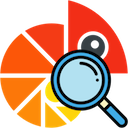
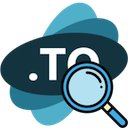
Port to AEON

diff --git a/xmrto-lens.css b/xmrto-lens.css
@@ -124,7 +124,7 @@ input[type=number]::-webkit-outer-spin-button {
 #xmrto-lens-modal button {
   border-radius: 4px;
   border:0;
-  background: #f60;
+  background: #2bd;
   color:#fff;
   font-size: 15px;
   padding: 12px 15px;
@@ -182,7 +182,7 @@ input[type=number]::-webkit-outer-spin-button {
 	content:"";
 	/* https://stackoverflow.com/a/24359746 */
 	/* https://stackoverflow.com/a/38175416 */
[2 lines of base64/hex data omitted]
 	width:38px;
 	height:38px;
 	position: absolute;
@@ -201,7 +201,7 @@ input[type=number]::-webkit-outer-spin-button {
 .spinner > div {
   width: 18px;
   height: 18px;
-  background-color: #a62;
+  background-color: #357;
 
   border-radius: 100%;
   display: inline-block;

diff --git a/xmrto-lens.js b/xmrto-lens.js
@@ -24,11 +24,11 @@ function inject_lens_icon(node) {
 }
 
 function show_error(msg) {
-    // At any point in the process, if the XMR.to api returns any kind of error,
+    // At any point in the process, if the AEON.to api returns any kind of error,
     // this text gets placed into the page.
     $("#xmrto-lens-modal").html(
         "<div class='ui-state-error ui-corner-all xmrto-error'>" +
-            "XMR.to API returned an Error:<br><br>" +
+            "AEON.to API returned an Error:<br><br>" +
             "<span class='ui-state-error-text xmrto-error-text'>" + msg + "</span>" +
         "</div>"
     );
@@ -103,7 +103,7 @@ function inject_modal() {
             btc_dest_address: btc_dest_address
         };
         $("#xmrto-lens-modal").html("<span class='hspace-10'></span>" + chrome.i18n.getMessage("calling_api") + spinner);
-        $.post(endpoint + "/xmr2btc/order_create/", order_create_param).done(function(order_create_res) {
+        $.post(endpoint + "/aeon2btc/order_create/", order_create_param).done(function(order_create_res) {
             if(order_create_res.error) {
                 show_error(order_create_res.error_msg);
                 return;
@@ -117,19 +117,18 @@ function inject_modal() {
                 }
                 // cehck the satus every 5 seconds
                 if(ticks % 5 == 0) {
-                    $.post(endpoint + "/xmr2btc/order_status_query/", { uuid: order_create_res.uuid } ).done(function(order_status_query_res) {
+                    $.post(endpoint + "/aeon2btc/order_status_query/", { uuid: order_create_res.uuid } ).done(function(order_status_query_res) {
                         if (order_status_query_res.error) {
                             show_error(order_status_query_res.error_msg);
                             clearInterval(interval_id);
                             return;
                         }
 
-                        var btc_num_confirmations           = order_status_query_res.btc_num_confirmations;
-                        var btc_transaction_id              = order_status_query_res.btc_transaction_id;
-                        var xmr_amount_total                = order_status_query_res.xmr_amount_total;
-                        var xmr_amount_remaining            = order_status_query_res.xmr_amount_remaining;
-                        var xmr_receiving_integrated_address = order_status_query_res.xmr_receiving_integrated_address;
-                        var xmr_required_amount             = order_status_query_res.xmr_required_amount;
+                        var btc_num_confirmations        = order_status_query_res.btc_num_confirmations;
+                        var btc_transaction_id           = order_status_query_res.btc_transaction_id;
+                        var incoming_amount_total        = order_status_query_res.incoming_amount_total;
+                        var remaining_amount_incoming    = order_status_query_res.remaining_amount_incoming;
+                        var receiving_integrated_address = order_status_query_res.receiving_integrated_address;
 
                         state                = order_status_query_res.state;
                         seconds_till_timeout = order_status_query_res.seconds_till_timeout;
@@ -137,8 +136,8 @@ function inject_modal() {
                         var panel_body =
                         "<div class='xmrto-panel-body'>" +
                             "<div>" + chrome.i18n.getMessage("send_pre") + " <span class='xmrto-remaining-amount text-white'></span> " + chrome.i18n.getMessage("send_post") +":<div>" +
-                            "<div class='text-white' style='word-wrap: break-word'>" + xmr_receiving_integrated_address + "</div>" + 
-                            // "<div>" + chrome.i18n.getMessage("paymentid") + " <span class='text-white'>" + xmr_required_payment_id + "</span><div>" +
+                            "<div class='text-white' style='word-wrap: break-word'>" + receiving_integrated_address + "</div>" + 
+                            // "<div>" + chrome.i18n.getMessage("paymentid") + " <span class='text-white'>" + aeon_required_payment_id + "</span><div>" +
                             // "<div class='text-small text-bold text-orange'>" + chrome.i18n.getMessage("caution") + "</div>" +
                             "<div class='vspace-20'></div>" +
                             "<div>" + chrome.i18n.getMessage("convert_pre") + " <span class='text-white'>" + btc_amount + "</span> " + chrome.i18n.getMessage("convert_post") + "</div>" +
@@ -148,7 +147,7 @@ function inject_modal() {
                             "<div class='text-white'>" + order_create_res.uuid + "</div>" +
                             "<div class='vspace-10'></div>" +
                             "<div>" + chrome.i18n.getMessage("commandline") + ":</div>" +
-                            "<div class='text-xsmall'><textarea class='width-100' style='height:60px' onclick='this.select()'>transfer normal " + xmr_receiving_integrated_address + " " + xmr_amount_remaining + "</textarea></div>" +
+                            "<div class='text-xsmall'><textarea class='width-100' style='height:60px' onclick='this.select()'>transfer normal " + receiving_integrated_address + " " + remaining_amount_incoming + "</textarea></div>" +
                             "<div class='vspace-10'></div>" +
                             "<div>" + chrome.i18n.getMessage("qrcode") + ":</div>" +
                             "<div id='xmrto-qrcode'></div>" +
@@ -164,20 +163,20 @@ function inject_modal() {
                             $("#xmrto-lens-modal").html(panel_body + status_outer);
 
                             var qrstring =
-                                "monero:" + xmr_receiving_integrated_address +
-                                "?tx_amount=" + xmr_amount_remaining +
-                                "&recipient_name=XMR.to" +
+                                "aeon:" + receiving_integrated_address +
+                                "?tx_amount=" + remaining_amount_incoming +
+                                "&recipient_name=AEON.to" +
                                 "&tx_description=Paying%20" + btc_amount + "%20BTC%20to%20" + btc_dest_address;
                             new QRCode(document.getElementById("xmrto-qrcode"), qrstring);
 
                             if (state == "UNDERPAID") {
                                 $("#xmrto-lens-modal .xmrto-remaining-amount").text(
-                                    chrome.i18n.getMessage("remaining_pre") + " " + xmr_amount_remaining + " " + 
-                                    chrome.i18n.getMessage("remaining_mid") + " " + xmr_amount_total + " " +
+                                    chrome.i18n.getMessage("remaining_pre") + " " + remaining_amount_incoming + " " + 
+                                    chrome.i18n.getMessage("remaining_mid") + " " + incoming_amount_total + " " +
                                     chrome.i18n.getMessage("remaining_post")
                                 );
                             } else {
-                                $("#xmrto-lens-modal .xmrto-remaining-amount").text(xmr_amount_remaining + " XMR");
+                                $("#xmrto-lens-modal .xmrto-remaining-amount").text(remaining_amount_incoming + " AEON");
                             }
 
                         } else {
@@ -207,7 +206,7 @@ function inject_modal() {
                                     "<div class='text-white'>" + order_create_res.uuid + "</div>" +
                                     "<div class='vspace-10'></div>" +
                                     "<div>" +
-                                        "<span class='text-white'>" + xmr_required_amount + " XMR</span> " +
+                                        "<span class='text-white'>" + incoming_amount_total + " AEON</span> " +
                                         chrome.i18n.getMessage("success_part1") + " <span class='text-white'>" + btc_amount + " BTC</span> " +
                                         chrome.i18n.getMessage("success_part2") +
                                     " </div>" +
@@ -274,7 +273,7 @@ function wrapMatchesInNode(textNode) {
 inject_lens_icon(document.body);
 
 var isTestNet, isProdNet;
-var endpoint = 'https://xmr.to/api/v2';
+var endpoint = 'https://aeon.to/api/v3';
 
 $(function() {
     $("body").on("click", '.xmrto-lens-link', function(event) {
@@ -289,9 +288,9 @@ $(function() {
 
         // change endpoint to use stagenet
         if (isTestNet) {
-          endpoint = 'https://test.xmr.to/api/v2';
+          endpoint = 'https://test.aeon.to/api/v3';
         } else if (isProdNet) {
-          endpoint = 'https://xmr.to/api/v2';
+          endpoint = 'https://aeon.to/api/v3';
         } else {
           // exit if address is not valid
           return;
@@ -299,9 +298,9 @@ $(function() {
 
         console.log('opening');
 
-      $.get(endpoint + "/xmr2btc/order_parameter_query/", function(response) {
+      $.get(endpoint + "/aeon2btc/order_parameter_query/", function(response) {
         if(response.error) {
-          show_error("XMR.to API returned an error: " + response.error_msg);
+          show_error("AEON.to API returned an error: " + response.error_msg);
           return;
         }
 
@@ -316,7 +315,7 @@ $(function() {
         $("#xmrto-lens-modal .xmrto-estimation-amount").text(response.zero_conf_max_amount + " BTC");
         $("#xmrto-lens-modal .xmrto-min-limit").text(response.lower_limit + " BTC");
         $("#xmrto-lens-modal .xmrto-max-limit").text(response.upper_limit + " BTC");
-        $("#xmrto-lens-modal .xmrto-rate").text("1 XMR = " + response.price + " BTC");
+        $("#xmrto-lens-modal .xmrto-rate").text("1 AEON = " + response.price + " BTC");
       });
 
         $("#xmrto-lens-modal .xmrto-address").val(address);
@@ -324,7 +323,7 @@ $(function() {
             show: { effect: "fade", duration: 300 },
             dialogClass: 'xmrto-dialog',
             width: "600px",
-            title: "XMR.to Lens",
+            title: "AEON.to Lens",
             close: function(event) {
                 $("#xmrto-lens-modal").remove();
                 already_injected = false;

diff --git a/README.md b/README.md
@@ -1,4 +1,4 @@
-XMR.to Lens
+AEON.to Lens
 ===============
 
-Chrome/Firefox extension for XMR.to
+Chrome/Firefox extension for AEON.to
